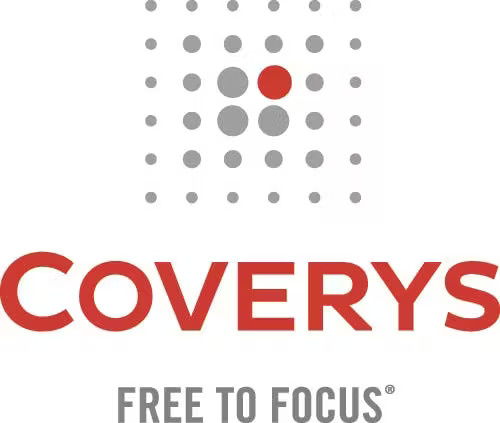
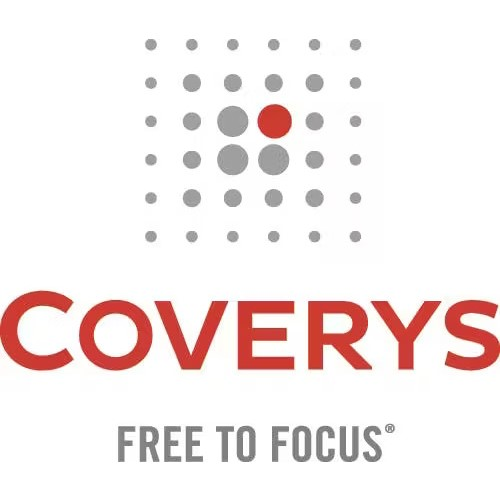
should fix border issue

diff --git a/_includes/experience.html b/_includes/experience.html
@@ -27,7 +27,7 @@
                         </li>
                         <li class="timeline-inverted">
                             <div class="timeline-image">
-                                <img class="img-circle img-responsive" src="img/experience/coverys-alt.jpg" alt="">
+                                <img class="img-circle img-responsive" src="img/experience/coverys.jpg" alt="">
                             </div>
                             <div class="timeline-panel">
                                 <div class="timeline-heading">
